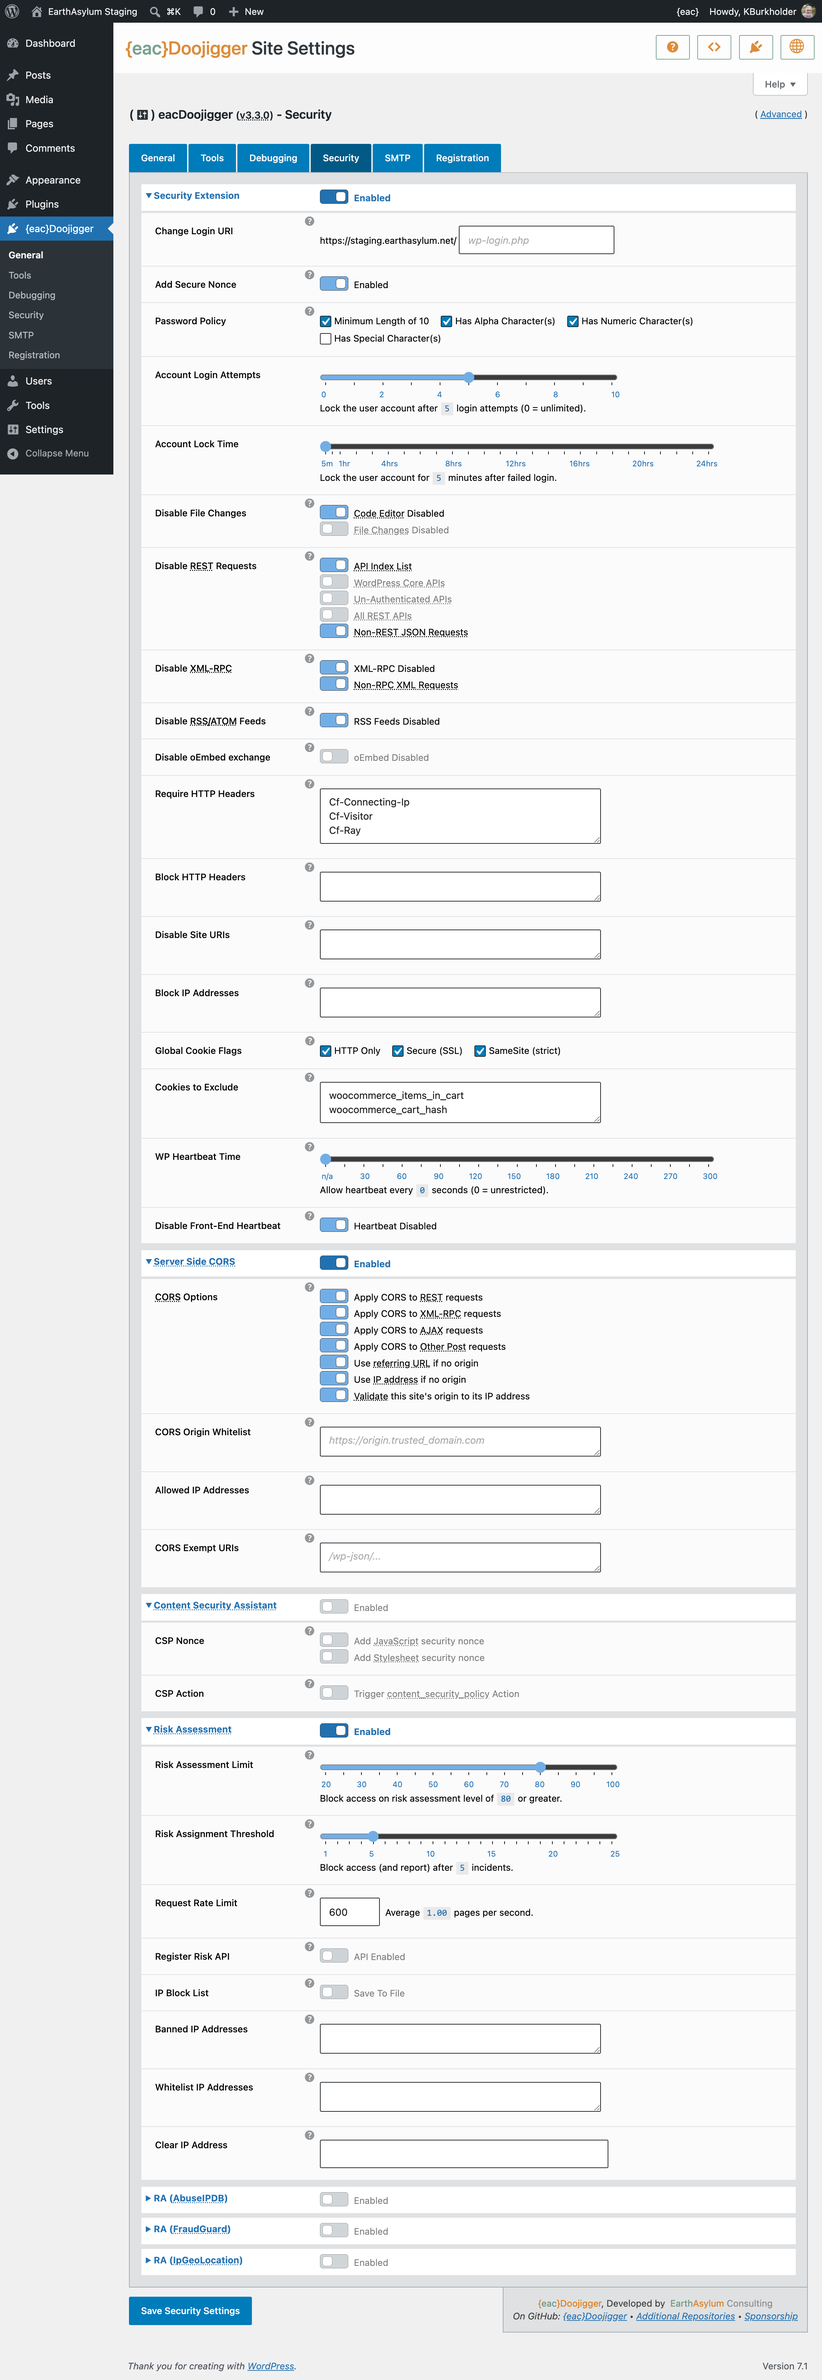
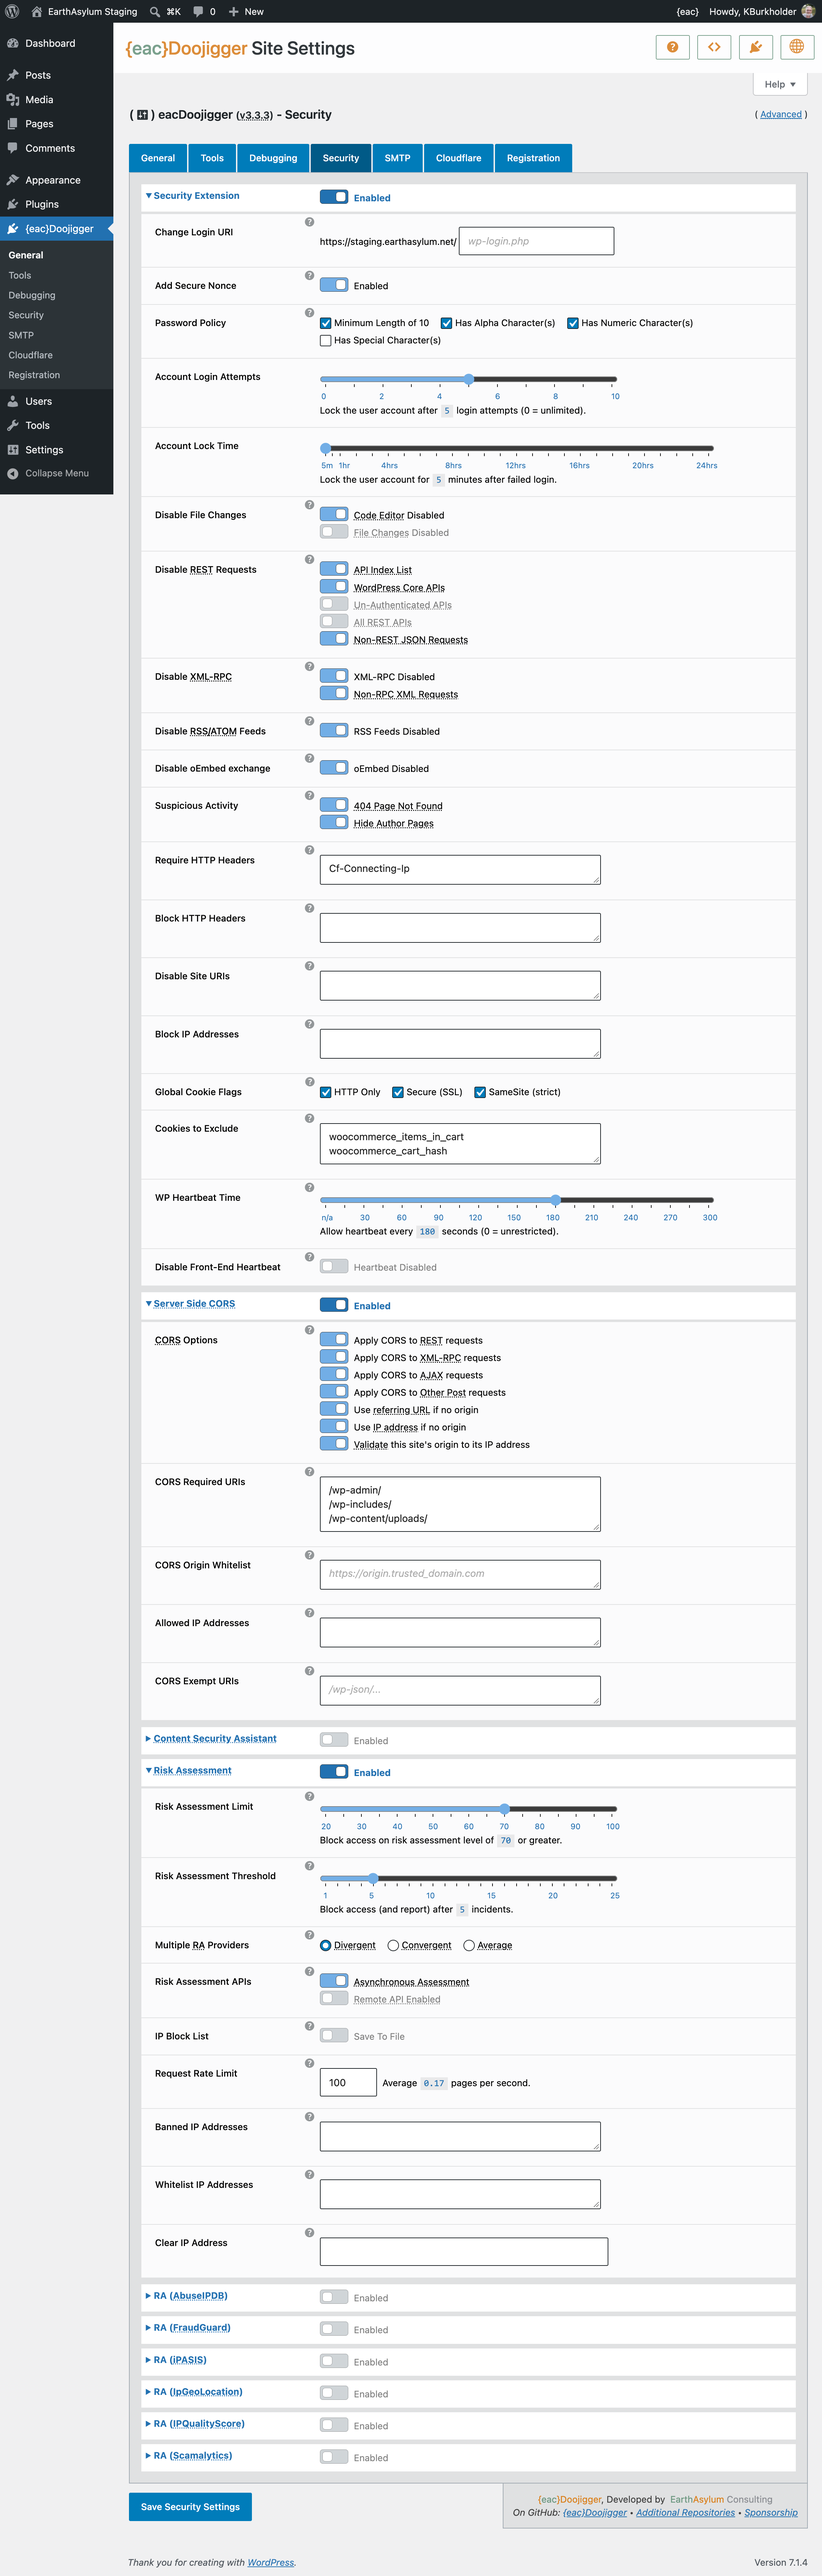
Version 3.3.3
= Version 3.3.3 – November 1, 2026 =

+	Requires PHP 8.2.
+	Added optional asynchronous risk assessment.
	+	Performs assessment via REST api rather than inline with page load.
+	Fixed `Implicitly marking parameter as nullable` (?string).
	+	wpmu_installer, plugin_help, abstract_core, registration
+	Wrap `get_config_path()` code in try...catch block to catch wp_filesystem error.
+	Fix use of variations of `Support link` (one overwriting another).
+	Fix debug logging shutting off (temporarily disable on file access error).
+	Use `http_headers_ready` action to clear/set headers in `access_denied()`.
+	Delay setting `header_register_callback` (http_headers_ready) using WP `send_headers`.
+	Fix potential geo location warning in iPASIS & Scamalytics..

diff --git a/EarthAsylumConsulting/Extensions/security/class.security_ra.extension.php b/EarthAsylumConsulting/Extensions/security/class.security_ra.extension.php
@@ -17,7 +17,7 @@ if (! class_exists(__NAMESPACE__.'\security_ra_extension', false) )
 		/**
 		 * @var string extension version
 		 */
-		const VERSION 			= '26.1023.1';
+		const VERSION 			= '26.1031.1';
 
 		/**
 		 * @var string alias
@@ -151,9 +151,16 @@ if (! class_exists(__NAMESPACE__.'\security_ra_extension', false) )
 			if ( ! parent::initialize() ) return; // disabled
 
 			/*
+			 * setup rest api - perform risk assessment for IP address
+			 */
+			if ($this->is_option('risk_assessment_api','async'))
+			{
+				add_action( 'rest_api_init', 	array($this,'risk_assessment_api') );
+			}
+			/*
 			 * setup rest api - allow external risk reporting
 			 */
-			if ($this->get_option('risk_assessment_api'))
+			if ($this->is_option('risk_assessment_api','remote'))
 			{
 				add_action( 'rest_api_init', 	array($this,'risk_api_register') );
 			}
@@ -196,10 +203,17 @@ if (! class_exists(__NAMESPACE__.'\security_ra_extension', false) )
 
 			if ($this->isEnabled() && ! current_user_can('edit_pages') ) // not editor or better
 			{
+				if ($_SERVER['REQUEST_METHOD'] != 'PUT' && !defined('REST_REQUEST')
+				&& ($this->is_option('risk_assessment_api','async')))
+				{
+					if ($this->do_async_assessment()) return;
+				}
+
 				add_action('init',						array($this, 'isBlacklisted'));
 				add_filter('wp_headers',				array($this, 'get_risk_assessment_result'),99);
 				add_action('login_init',				array($this, 'get_risk_assessment_result'),99);
 			}
+
 			add_action('xmlrpc_enabled',				array($this, 'get_risk_assessment_result'),99);
 			add_action('rest_pre_serve_request',		array($this, 'get_risk_assessment_result'),99);
 
@@ -268,6 +282,38 @@ if (! class_exists(__NAMESPACE__.'\security_ra_extension', false) )
 					$this->register_risk('blocked by IP blacklist rule', 'threat', 100);
 				}
 			}
+		}
+
+
+		/**
+		 * Do risk assessment asynchronously
+		 *
+		 */
+		public function do_async_assessment(): bool
+		{
+			$ipAddress 	= $this->getVisitorIP();
+			if (! ($this->transient_provider($ipAddress,true)) )
+			{
+				$origin = parse_url(site_url());
+				$origin = $origin['scheme'].'://'.$origin['host'];
+				$result = wp_remote_request(
+					home_url('wp-json/eacDoojigger/v1/risk_assessment'),
+					[
+						'method'	=> 'PUT',
+						'timeout'   => 0.01,
+						'blocking'  => false,
+						'headers'	=> [
+							'Authorization' 	=> 'token '.base64_encode(wp_salt('auth')),
+							'true-client-ip' 	=> $ipAddress,
+							'referer' 			=> $this->varServer('Referer') ?: $this->getRequestURL(),
+							'User-Agent'		=> $this->varServer('User-Agent'),
+							'Origin'			=> $origin,
+						]
+					]
+				);
+				return true;
+			}
+			return false;
 		}
 
 
@@ -530,6 +576,49 @@ if (! class_exists(__NAMESPACE__.'\security_ra_extension', false) )
 
 
 		/*
+		 * Do risk assessment API
+		 * used by REST api: /wp-json/eacDoojigger/v1/risk_assessment
+		 */
+
+
+		/**
+		 * Register a WP REST api
+		 *
+		 * @return void
+		 */
+		public function risk_assessment_api()
+		{
+			$types = implode('|',array_keys(self::RISK_TYPES));
+			register_rest_route( $this->pluginName, "/v1/risk_assessment", array(
+				array(
+					'methods'             	=> \WP_REST_Server::EDITABLE,
+					'callback'            	=> [$this, 'get_risk_assessment_result'],
+					'permission_callback' 	=> [$this,'risk_assessment_api_auth'],
+				),
+			));
+		}
+
+
+		/**
+		 * Register a WP REST api
+		 *
+		 * @return void
+		 */
+		public function risk_assessment_api_auth($request)
+		{
+			list ($authType,$authKey) = explode(' ',$request->get_header( 'Authorization' ));
+			if ($authKey) {
+				$authKey = base64_decode( trim($authKey) );
+				$authKey = ($authKey == wp_salt('auth'));
+			}
+			if (!$authKey) {
+				wp_die( $this->plugin->access_denied("Asynchronous Risk authentication failed",401) );
+			}
+			return true;
+		}
+
+
+		/*
 		 * Register risk activity
 		 * used by REST api: /wp-json/eacDoojigger/v1/register_[fraud|threat|abuse|risk]
 		 * - or - actions: do_action( 'eacDoojigger_register_[fraud|threat|abuse|risk]' )
@@ -575,7 +664,7 @@ if (! class_exists(__NAMESPACE__.'\security_ra_extension', false) )
 			 */
 			if (! $this->apply_filters('risk_api_register_request',true,$request))
 			{
-				return $this->plugin->access_denied("Register Risk authentication failed",401);
+				wp_die( $this->plugin->access_denied("Register Risk authentication failed",401) );
 			}
 
 			// allow origin in CORS

diff --git a/EarthAsylumConsulting/Extensions/security/includes/security_ra.options.php b/EarthAsylumConsulting/Extensions/security/includes/security_ra.options.php
@@ -13,6 +13,10 @@
 
 defined( 'ABSPATH' ) or exit;
 
+if ($this->is_option('risk_assessment_api','Enabled')) {
+	$this->update_option('risk_assessment_api',['remote']);
+}
+
 if ($rateLimit = $this->security->isPolicyEnabled('risk_assessment_rate_limit')) {
 	$rateLimit = round($rateLimit/self::RL_SPAN,2);
 } else $rateLimit = 'n';
@@ -53,7 +57,7 @@ $this->registerExtensionOptions( $this->className,
 		),
 		'risk_assessment_threshold' => array(
 				'type'		=>	'range',
-				'label'		=>	'Risk Assignment Threshold',
+				'label'		=>	'Risk Assessment Threshold',
 				'default'	=>	$this->is_network_option('risk_assessment_threshold') ?: 5,
 				'info'		=>	"Block access (and report) after an IP address has been tagged (internally) at least [value] times in a 24 hour period.",
 				'after'		=>	'<datalist id="risk_assessment_threshold-ticks">'.
@@ -105,10 +109,15 @@ $this->registerExtensionOptions( $this->className,
 		),
 		'risk_assessment_api' 	=> array(
 				'type'		=>	'switch',
-				'label'		=>	'Register Risk API',
-				'options' 	=> 	['API Enabled'=>'Enabled'],
+				'label'		=>	'Risk Assessment APIs',
+				'options' 	=> 	[
+									"<abbr title='Perform risk assessment asynchronously, allowing the inital request but possibly blocking subsequent requests.'>Asynchronous Assessment</abbr>"	=> 'async',
+									"<abbr title='This API may be used to (externally) redirect high-risk requests to be blocked and reported.'>Remote API Enabled</abbr>" => 'remote'
+								],
 				'default'	=>	$this->is_network_option('risk_assessment_api'),
-				'info'		=> 	"This API may be used to (externally) redirect high-risk requests to be blocked and reported.".
+				'info'		=> 	"<em>Asynchronous Assessment</em>: Perform risk assessment asynchronously, allowing the inital request but possibly blocking subsequent requests.<br>".
+								"<em>Remote API</em>: may be used to (externally) redirect high-risk requests to be blocked and reported.",
+				'help'		=> 	"[info]".
 								"<br>&rarr; /wp-json/".$this->pluginName."/v1/register_fraud?score=nn".
 								"<br>&rarr; /wp-json/".$this->pluginName."/v1/register_threat?score=nn".
 								"<br>&rarr; /wp-json/".$this->pluginName."/v1/register_abuse?score=nn".

diff --git a/EarthAsylumConsulting/Extensions/security/class.security_ra_scamalytics.extension.php b/EarthAsylumConsulting/Extensions/security/class.security_ra_scamalytics.extension.php
@@ -19,7 +19,7 @@ if (! class_exists(__NAMESPACE__.'\security_ra_scamalytics', false) )
 		/**
 		 * @var string extension version
 		 */
-		const VERSION 			= '26.1013.1';
+		const VERSION 			= '26.1101.1';
 
 		/**
 		 * @var string risk assessment provider name (display name, array key, transient id)
@@ -129,7 +129,7 @@ if (! class_exists(__NAMESPACE__.'\security_ra_scamalytics', false) )
 					$type  = ['low'=>'risk', 'medium'=>'abuse', 'high'=>'threat', 'very high'=>'fraud'];
 					$type  = $type[$scamalytics['scamalytics_risk']] ?? 'threat';
 					$location = $result['external_datasources']['maxmind_geolite2'];
-					$geo = explode(',',$location['ip_geolocation']);
+					$geo = explode(',',$location['ip_geolocation'] ?: "0,0");
 					$data = array_replace($data,array_filter([
 						'CountryCode'		=> $location['ip_country_code'],
 						'CountryName'		=> $location['ip_country_name'],

diff --git a/EarthAsylumConsulting/Extensions/security/class.security_ra_ipasis.extension.php b/EarthAsylumConsulting/Extensions/security/class.security_ra_ipasis.extension.php
@@ -19,7 +19,7 @@ if (! class_exists(__NAMESPACE__.'\security_ra_ipasis', false) )
 		/**
 		 * @var string extension version
 		 */
-		const VERSION 			= '26.1013.1';
+		const VERSION 			= '26.1101.1';
 
 		/**
 		 * @var string risk assessment provider name (display name, array key, transient id)
@@ -130,7 +130,7 @@ if (! class_exists(__NAMESPACE__.'\security_ra_ipasis', false) )
 						$score <= 80 => 'threat',
 						default => 'fraud',
 					};
-					$geo = explode(',',$result['loc']);
+					$geo = explode(',',$result['loc'] ?: "0,0");
 					$data = array_replace($data,array_filter([
 						'CountryCode'		=> $result['country'],
 						'City'				=> $result['city'],

diff --git a/changelog.md b/changelog.md
@@ -1,8 +1,10 @@
 ### Changelog
 
-#### Version 3.3.3 – October 30, 2026
+#### Version 3.3.3 – November 1, 2026
 
 +	Requires PHP 8.2.
++	Added optional asynchronous risk assessment. 
+    +   Performs assessment via REST api rather than inline with page load. 
 +   Fixed `Implicitly marking parameter as nullable` (?string).
 	+	wpmu_installer, plugin_help, abstract_core, registration
 +	Wrap `get_config_path()` code in try...catch block to catch wp_filesystem error.
@@ -10,6 +12,7 @@
 +	Fix debug logging shutting off (temporarily disable on file access error).
 +	Use `http_headers_ready` action to clear/set headers in `access_denied()`.
 +	Delay setting `header_register_callback` (http_headers_ready) using WP `send_headers`.
++	Fix potential geo location warning in iPASIS & Scamalytics..
 
 #### Version 3.3.2 – October 23, 2026
 

diff --git a/readme.md b/readme.md
@@ -9,7 +9,7 @@
 Plugin URI:             https://eacDoojigger.earthasylum.com/  
 Author:             	[EarthAsylum Consulting](https://www.earthasylum.com)  
 Stable tag:             3.3.3  
-Last Updated:           30-Oct-2026  
+Last Updated:           01-Nov-2026  
 Requires at least:      5.8  
 Tested up to:           7.1  
 Requires PHP:           8.2  
